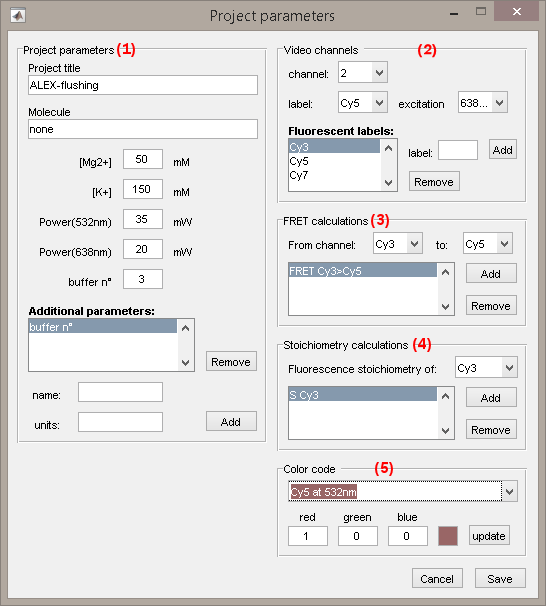
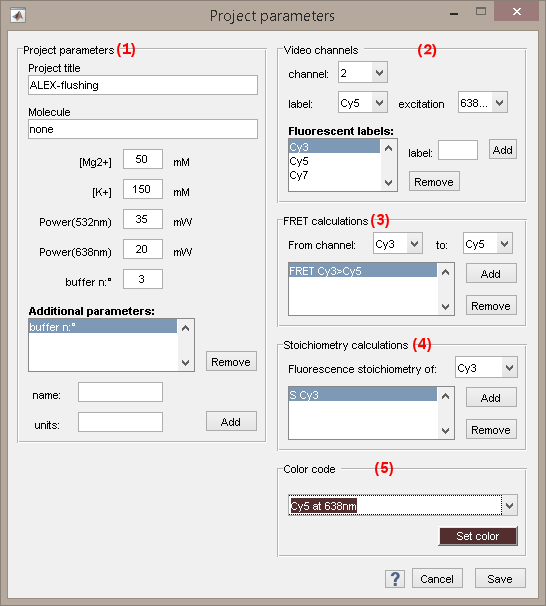
review VP's functionality Set project options

diff --git a/docs/video-processing/functionalities/set-project-options.md b/docs/video-processing/functionalities/set-project-options.md
@@ -32,14 +32,14 @@ They are initially set in module Video processing by pressing
 
 ## Project parameters
 
-They concern the project title and some optional parameters.
+Use this panel to define the project title and some optional parameters.
 
 <a class="plain" href="../../assets/images/gui/VP-panel-expset-opt-projprm.png"><img src="../../assets/images/gui/VP-panel-expset-opt-projprm.png" style="max-width: 250px;"/></a>
 
 The project title is the name appearing in the project lists. 
-It can be modified in **(a)**.
-Default titles are named after the
-[MASH project file](../../output-files/mash-mash-project.html) or by the directory containing imported ASCII trajectories.
+It can be defined in **(a)** or default title can be used by leaving **(a)** empty.
+By default, projects are titled after the corresponding 
+[.mash file](../../output-files/mash-mash-project.html) or after the source directory when traces are imported from ASCII files.
 
 Optional project parameters include the name of the molecule under study, set in **(b)**, and a group of experimental parameters, set in **(c)**.
 By default, the group in **(c)** contains parameters:
@@ -62,7 +62,7 @@ For the moment, optional parameters solely act as project "tags" saved with the
 
 ## Video channels
 
-They are the channel labels and excitation selectivity.
+Use this panel to define the channel labels and excitation selectivity.
 
 <a class="plain" href="../../assets/images/gui/VP-panel-expset-opt-channels.png"><img src="../../assets/images/gui/VP-panel-expset-opt-channels.png" style="max-width: 250px;"/></a>
 
@@ -84,16 +84,16 @@ Labels can be removed from the list any time by pressing
 
 ## FRET calculations
 
-They are the possible energy transfer occurring between the detected emitters.
+Use this panel to define the FRET pairs.
 
 <a class="plain" href="../../assets/images/gui/VP-panel-expset-opt-fret.png"><img src="../../assets/images/gui/VP-panel-expset-opt-fret.png" style="max-width: 250px;"/></a>
 
-To define a donor-acceptor pair in the FRET network, respective labels must be selected in list **(a)** and **(b)** prior pressing 
+To define a donor-acceptor pair in the multiple FRET-pair network, labels must be selected in list **(a)** and **(b)** respectively prior pressing 
 ![Add](../../assets/images/gui/VP-but-add.png "Add").
-All transfers included in the network are listed in list **(c)** and can be removed any time by pressing 
+All FRET pairs included in the network are listed in **(c)** and can be removed any time by pressing 
 ![Remove](../../assets/images/gui/VP-but-remove.png "Remove").
 
-In a FRET network composed of 
+In a FRET-pair network composed of 
 [*K*](){: .math_var } emitters and where emitters are indexed according to the red-shift of their emission spectra (1 for the most blue-shifted and K for the most red-shifted), the apparent FRET value 
 [*E*\*<sub>*D*,*A*</sub>](){: .math_var } of a pair donor-acceptor with respective indexes 
 [*D*](){: .math_var } and 
@@ -101,13 +101,6 @@ In a FRET network composed of
 
 {: .equation }
 <img src="../../assets/images/equations/VP-eq-fret-calc-01.gif" alt="E_{D,A}^{*} = {}\frac{I_{A,em}^{D,ex}}{\left [ 1 - \sum_{k>A} \left ( E_{A,k}^{*}  \right ) \right ] \times \sum_{k} \left ( I_{k,em}^{D,ex}  \right )} - \sum_{k>D}^{A-1} \left \{\E_{D,k}^{*} \times \prod_{k'> k}^{A} \left [E_{k,k'}^{*} \times \prod_{k''> k'}^{A} \left (E_{k',k''}^{*}  \right )  \right ]  \right \}">
-
-<!--
-{: .equation }
-*E*\*<sub>*D*,*A*</sub> = *I*<sub>*A*</sub><sup>*D*</sup> / { [ 1 - &#931;<sub>*A*>*k*&#8805;*K*</sub>( *E*\*<sub>*A*,*k*</sub> ) ] &#215; &#931;<sub>*D*&#8805;*k*&#8805;*K*</sub>( *I*<sub>*k*</sub><sup>*D*</sup> ) }<br><br>
-&#160;&#160;&#160;&#160;&#160;&#160;&#160;&#160;&#160;&#160;&#160;&#160;&#160;&#160;&#160;&#160;&#160;&#160;&#160;&#160;&#160;&#160;&#160;&#160;&#160;&#160;
-            - &#931;<sub>*D*>*k*>*A*</sub>{ *E*\*<sub>*D*,*k*</sub> &#215; &#928;<sub>*k*>*k'*&#8805;*A*</sub>[ *E*\*<sub>*k*,*k'*</sub> &#215; &#928;<sub>*k'*>*k''*&#8805;*A*</sub>( *E*\*<sub>*k'*,*k''*</sub> ) ] }
--->
 
 with 
 [*I*<sub>*k*,em</sub><sup>*k'*,ex</sup>](){: .math_var } the intensity collected in detection channel of emitter 
@@ -128,25 +121,14 @@ In this case, the expression is simplified to a simple 2-color apparent FRET equ
 {: .equation }
 <img src="../../assets/images/equations/VP-eq-fret-calc-02.gif" alt="E_{K-1,K}^{*}= \fract{I_{K-1,em}^{K,ex}}{\sum_{k \geq K-1} \left ( I_{K-1,em}^{K,ex} \right )}">
 
-<!--
-{: .equation }
-*E*\*<sub>*K*-1,*K*</sub> = *I*<sub>*K*</sub><sup>*K*-1</sup> / &#931;<sub>*K*-1&#8805;*k*&#8805;*K*</sub>( *I*<sub>*k*</sub><sup>*K*-1</sup> )
--->
-
 giving:
 
 {: .equation }
 <img src="../../assets/images/equations/VP-eq-fret-calc-03.gif" alt="E_{K-1,K}^{*}= \frac{I_{K,em}^{K-1,ex}}{I_{K,em}^{K-1,ex}+I_{K-1,em}^{K-1,ex}}">
 
-<!--
-{: .equation }
-*E*\*<sub>*K*-1,*K*</sub> = *I*<sub>*K*</sub><sup>*K*-1</sup> / ( *I*<sub>*K*</sub><sup>*K*-1</sup> + *I*<sub>*K*-1</sub><sup>*K*-1</sup> )
--->
-
 where 
 [*E*\*<sub>*K*-1,*K*</sub>](){: .math_var } depends only on acquired intensity-time traces and thus, can be readily calculated.
 
-Calculated 
 [*E*\*<sub>*K*-1,*K*</sub>](){: .math_var } can then be used to solve the equation for the next most red-shifted donor, *i.e.*, for pairs 
 ([*D*](){: .math_var } = [*K*](){: .math_var }-2, 
 [*A*](){: .math_var } = [*K*](){: .math_var }-1, ) and 
@@ -159,36 +141,24 @@ In this case, the expression is simplified to a 3-color apparent FRET equation s
 <img src="../../assets/images/equations/VP-eq-fret-calc-04.gif" alt="E_{K-2,K-1}^{*} = \frac{ I_{K-1,em}^{K-2,ex} }{ \left [ 1 - \sum_{k>K-1}\left ( E_{K-1,k}^{*} \right ) \right ] \times \sum_{k \geq  K-2}\left ( I_{k,em}^{K-2,ex} \right )  }"><br>
 <img src="../../assets/images/equations/VP-eq-fret-calc-05.gif" alt="E_{K-2,K}^{*} = \frac{ I_{K,em}^{K-2ex} }{ \sum_{k\geq K-2}\left ( I_{k,em}^{K-2,ex} \right ) - \sum_{k> K-2}\left [ E_{K-2,k}^{*} \times \prod_{k'>k} \left ( E_{k,k'}^{*} \right ) \right ]}">
 
-<!--
-{: .equation }
-*E*\*<sub>*K*-2,*K*-1</sub> = *I*<sub>*K*-1</sub><sup>*K*-2</sup> / { [ 1 - &#931;<sub>*K*-1>*k*&#8805;*K*</sub>( *E*\*<sub>*K*-1,*k*</sub> ) ] &#215; &#931;<sub>*K*-2&#8805;*k*&#8805;*K*</sub>( *I*<sub>*k*</sub><sup>*K*-2</sup> ) }<br><br>
-*E*\*<sub>*K*-2,*K*</sub> = *I*<sub>*K*</sub><sup>*K*-2</sup> / &#931;<sub>*K*-2&#8805;*k*&#8805;*K*</sub>( *I*<sub>*k*</sub><sup>*K*-2</sup> ) - &#931;<sub>*K*-2>*k*>*K*</sub>[ *E*\*<sub>*K*-2,*k*</sub> &#215; &#928;<sub>*k*>*k'*&#8805;*K*</sub>( *E*\*<sub>*k*,*k'*</sub> ) ]
--->
-
 giving:
 
 {: .equation }
 <img src="../../assets/images/equations/VP-eq-fret-calc-06.gif" alt="E_{K-2,K-1}^{*} = \frac{I_{K-1,em}^{K-2,ex}}{\left ( 1 - E_{K-1,K}^{*} \right ) \times \left ( I_{K,em}^{K-2,ex} + I_{K-1,em}^{K-2,ex} + I_{K-2,em}^{K-2,ex} \right )}"><br>
 <img src="../../assets/images/equations/VP-eq-fret-calc-07.gif" alt="E_{K-2,K}^{*} = \frac{I_{K,em}^{K-2,ex}}{ I_{K,em}^{K-2,ex} + I_{K-1,em}^{K-2,ex} + I_{K-2,em}^{K-2,ex}} - E_{K-2,K-1}^{*}\times E_{K-1,K}^{*}">
 
-<!--
-{: .equation }
-*E*\*<sub>*K*-2,*K*-1</sub> = *I*<sub>*K*-1</sub><sup>*K*-2</sup> / ( 1 - *E*<sub>*K*-1,*K*</sub> ) &#215; ( *I*<sub>*K*</sub><sup>*K*-2</sup> + *I*<sub>*K*-1</sub><sup>*K*-2</sup> + *I*<sub>*K*-2</sub><sup>*K*-2</sup> )<br><br>
-*E*\*<sub>*K*-2,*K*</sub> = *I*<sub>*K*</sub><sup>*K*-2</sup> / ( *I*<sub>*K*</sub><sup>*K*-2</sup> + *I*<sub>*K*-1</sub><sup>*K*-2</sup> + *I*<sub>*K*-2</sub><sup>*K*-2</sup> ) - *E*<sub>*K*-2,*K*-1</sub> &#215; *E*<sub>*K*-1,*K*</sub> 
--->
-
 where 
 [*E*\*<sub>*K*-2,*K*-1</sub>](){: .math_var } depends on acquired intensity-time traces and the previously calculated 
 [*E*\*<sub>*K*-1,*K*</sub>](){: .math_var }.
 
-Calculated 
 [*E*\*<sub>*K*-2,*K*-1</sub>](){: .math_var } and 
-[*E*\*<sub>*K*-2,*K*</sub>](){: .math_var } can then be used to solve the equation for the next most red-shifted donor and so on ...
+[*E*\*<sub>*K*-2,*K*</sub>](){: .math_var } can then be used to solve the equation for the next most red-shifted donor.
+The operation is repeated until apparent FRET values are solved for all FRET-pairs.
 
 To know more about how multi-color apparent FRET data are calculated, please refer to the respective functions in the source code:
 
 ```
-MASH-FRET/buildFretexpr.m
+MASH-FRET/tools/buildFretexpr.m
 MASH-FRET/source/traces/processing/FRET/calcFRET.m
 ```
 
@@ -196,7 +166,7 @@ MASH-FRET/source/traces/processing/FRET/calcFRET.m
 
 ## Stoichiometry calculations
 
-They are the desired emitter stoichiometries to be calculated and plotted.
+Use this panel to define the emitter stoichiometries to be calculated and plotted.
 
 <a class="plain" href="../../assets/images/gui/VP-panel-expset-opt-s.png"><img src="../../assets/images/gui/VP-panel-expset-opt-s.png" style="max-width: 250px;"/></a>
 
@@ -212,11 +182,6 @@ The stoichiometry
 {: .equation }
 <img src="../../assets/images/equations/VP-eq-s-calc.gif" alt="S_{D} = \frac{\sum_{k}\left (I_{k,em}^{D,ex} \right )}{\sum_{k}\left[ \sum_{k'}\left( I_{k',em}^{k,ex} \right ) \right ]}">
 
-<!--
-{: .equation }
-*S*<sub>*D*</sub> = &#931;<sub>1&#8805;*k*&#8805;*K*</sub>( *I*<sub>*k*,em</sub><sup>*D*,ex</sup> ) / &#931;<sub>1&#8805;*k*&#8805;*K*</sub>[ &#931;<sub>1&#8805;*k'*&#8805;*K*</sub>( *I*<sub>*k*,em</sub><sup>*k'*,ex</sup> ) ]
--->
-
 with 
 [*I*<sub>*k*,em</sub><sup>*k'*,ex</sup>](){: .math_var } the intensity collected from emitter 
 [*k*](){: .math_var } specifically detected in channel 
@@ -228,7 +193,7 @@ A stoichiometry
 [*S*<sub>*D*</sub>](){: .math_var } = 0.5 means that 50% of the total number of collected photons belongs to the emitter 
 [*D*](){: .math_var }.
 
-To activate the calculation of an emitter stoichiometry, the corresponding channel label must be selected in **(a)** prior pressing 
+To activate the stoichiometry calculation for an emitter in particular, the emitter's label must be selected in **(a)** prior pressing 
 ![Add](../../assets/images/gui/VP-but-add.png "Add").
 All desired stoichiometry calculations are listed in **(b)** and can be removed any time by pressing 
 ![Remove](../../assets/images/gui/VP-but-remove.png "Remove").
@@ -237,13 +202,10 @@ All desired stoichiometry calculations are listed in **(b)** and can be removed 
 
 ## Color code
 
-They are the colors used to identify calculated and plotted traces
+Use this panel to define the colors used to plot and identify the time traces.
 
 <a class="plain" href="../../assets/images/gui/VP-panel-expset-opt-colors.png"><img src="../../assets/images/gui/VP-panel-expset-opt-colors.png" style="max-width: 250px;"/></a>
 
-To set the RGB color of a specific trace, select the data in list **(a)** and set the red, green and blue values in **(b)**, **(c)** and **(d)** respectively.
-Red, green and blue takes values between 0 and 1.
-
-The resulting color is displayed in **(e)** and can be exported to list **(a)** by pressing 
-![update](../../assets/images/gui/VP-but-update.png "update").
+To set the RGB color of a specific trace, select the data in list **(a)** and press
+![Set color](../../assets/images/gui/VP-but-set-color.png "Set color") to open the color picker.
 
